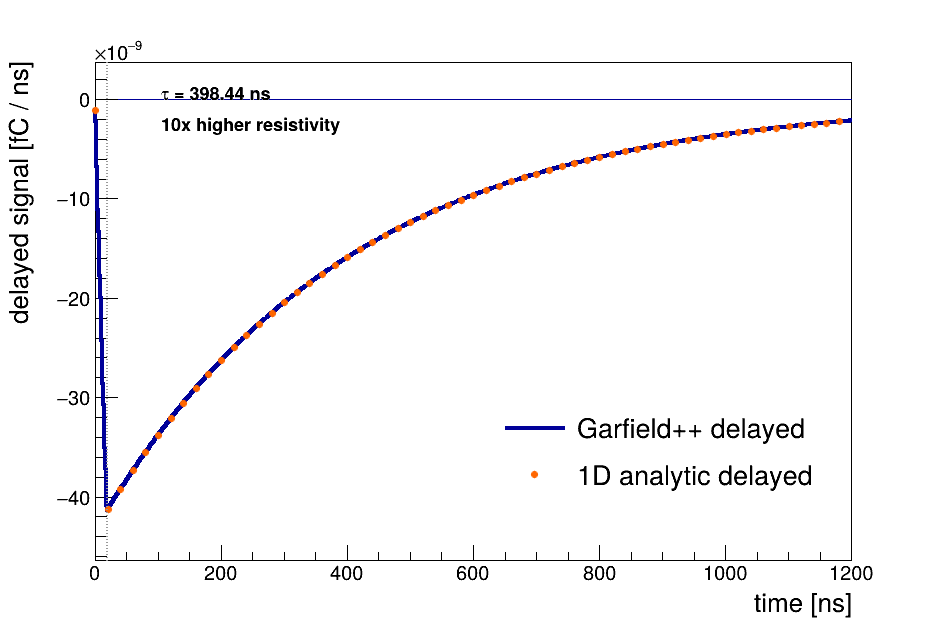
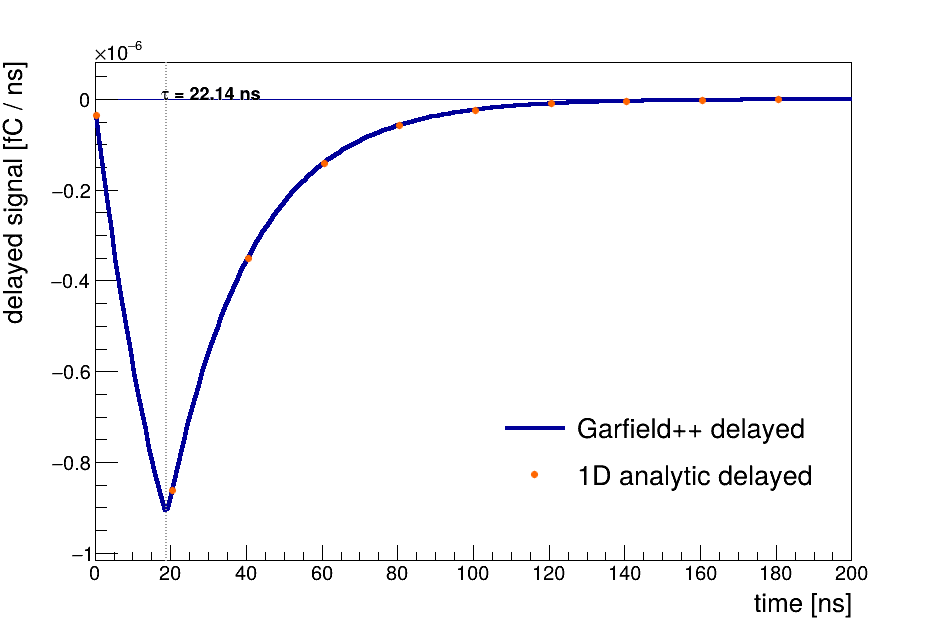
Improved dynamic example

diff --git a/plate2D/dynamic/scripts/compare_analytic_signal.py b/plate2D/dynamic/scripts/compare_analytic_signal.py
@@ -27,9 +27,9 @@ import ROOT
 class AnalyticParameters:
     resistive_thickness_cm: float = 0.5
     gas_gap_cm: float = 1.0
-    resistive_epsilon_r: float = 4.0
+    resistive_epsilon_r: float = 2.0
     gas_epsilon_r: float = 1.0
-    resistive_conductivity_s_m: float = 1.0e-4
+    resistive_conductivity_s_m: float = 1.0e-3
     gas_conductivity_s_m: float = 1.0e-12
     electron_start_y_cm: float = 1.45
     gas_resistive_interface_y_cm: float = 0.5
@@ -61,23 +61,23 @@ def read_signal(path: Path) -> list[tuple[float, float, float, float]]:
     return rows
 
 
-def read_resistive_conductivity(root: Path) -> float:
+def read_material_value(root: Path, material_id: int, key: str) -> float:
     sif = root / "elmer" / "weighting_dynamic_eqs.sif"
-    in_material_1 = False
-    pattern = re.compile(r"Electric Conductivity\s*=\s*([0-9.eE+-]+)")
+    in_material = False
+    pattern = re.compile(rf"{re.escape(key)}\s*=\s*([0-9.eE+-]+)")
     with sif.open() as handle:
         for line in handle:
             stripped = line.strip()
-            if stripped == "Material 1":
-                in_material_1 = True
+            if stripped == f"Material {material_id}":
+                in_material = True
                 continue
-            if in_material_1 and stripped == "End":
+            if in_material and stripped == "End":
                 break
-            if in_material_1:
+            if in_material:
                 match = pattern.search(stripped)
                 if match:
                     return float(match.group(1))
-    raise RuntimeError(f"Could not read Material 1 conductivity from {sif}.")
+    raise RuntimeError(f"Could not read Material {material_id} {key} from {sif}.")
 
 
 def analytic_components(
@@ -223,8 +223,81 @@ def make_plot(
     text = ROOT.TLatex()
     text.SetNDC(True)
     text.SetTextSize(0.032)
-    text.DrawLatex(0.53, 0.62, f"#tau = {relaxation_time_ns(pars):.2f} ns")
     text.DrawLatex(0.53, 0.57, "electron reaches layer at T = 19.0 ns")
+
+    path.parent.mkdir(parents=True, exist_ok=True)
+    canvas.SaveAs(str(path))
+
+
+def make_transient_signal_plot(
+    path: Path,
+    garfield_rows: list[tuple[float, float, float, float]],
+) -> None:
+    ROOT.gROOT.SetBatch(True)
+    ROOT.gStyle.SetOptStat(0)
+
+    xmax = 50.0
+    window_rows = [row for row in garfield_rows if row[0] <= xmax]
+    if not window_rows:
+        raise RuntimeError("No signal samples found in the 0-50 ns plotting window.")
+
+    values = [value for _, total, prompt, delayed in window_rows
+              for value in (total, prompt, delayed)]
+    ymin = 1.12 * min(values)
+    ymax = max(0.7e-6, 1.12 * max(values))
+
+    canvas = ROOT.TCanvas("cTransientSignal", "Transient signal", 950, 650)
+    frame = ROOT.TH1D("transientFrame", "", 100, 0.0, xmax)
+    frame.SetDirectory(0)
+    frame.SetMinimum(ymin)
+    frame.SetMaximum(ymax)
+    frame.GetXaxis().SetTitle("time [ns]")
+    frame.GetYaxis().SetTitle("signal [fC / ns]")
+    frame.GetXaxis().SetTitleSize(0.045)
+    frame.GetYaxis().SetTitleSize(0.045)
+    frame.Draw()
+
+    total_graph = graph(
+        [(t, total) for t, total, _, _ in garfield_rows],
+        "garfield_total_short",
+        ROOT.kBlue + 2,
+        4,
+    )
+    prompt_graph = graph(
+        [(t, prompt) for t, _, prompt, _ in garfield_rows],
+        "garfield_prompt_short",
+        ROOT.kGray + 2,
+        3,
+        2,
+    )
+    delayed_graph = graph(
+        [(t, delayed) for t, _, _, delayed in garfield_rows],
+        "garfield_delayed_short",
+        ROOT.kOrange + 7,
+        3,
+    )
+    total_graph.Draw("L SAME")
+    prompt_graph.Draw("L SAME")
+    delayed_graph.Draw("L SAME")
+
+    collection = ROOT.TLine(19.0, ymin, 19.0, ymax)
+    collection.SetLineColor(ROOT.kGray + 1)
+    collection.SetLineStyle(3)
+    collection.SetLineWidth(2)
+    collection.Draw()
+
+    legend = ROOT.TLegend(0.50, 0.65, 0.88, 0.84)
+    legend.SetBorderSize(0)
+    legend.SetFillStyle(0)
+    legend.AddEntry(total_graph, "total", "l")
+    legend.AddEntry(prompt_graph, "prompt", "l")
+    legend.AddEntry(delayed_graph, "delayed", "l")
+    legend.Draw()
+
+    text = ROOT.TLatex()
+    text.SetNDC(True)
+    text.SetTextSize(0.032)
+    text.DrawLatex(0.52, 0.57, "electron reaches layer at T = 19.0 ns")
 
     path.parent.mkdir(parents=True, exist_ok=True)
     canvas.SaveAs(str(path))
@@ -240,7 +313,9 @@ def make_tail_zoom_plot(
     ROOT.gStyle.SetOptStat(0)
 
     dt = garfield_rows[1][0] - garfield_rows[0][0]
-    xmax = garfield_rows[-1][0] + 0.5 * dt
+    full_xmax = garfield_rows[-1][0] + 0.5 * dt
+    tail_xmax = 19.0 + 8.0 * relaxation_time_ns(pars)
+    xmax = min(full_xmax, max(200.0, tail_xmax))
     delayed_values = [delayed for _, _, _, delayed in garfield_rows]
     ymin = 1.12 * min(delayed_values)
     ymax = max(0.3e-8, 0.08 * abs(ymin))
@@ -288,7 +363,6 @@ def make_tail_zoom_plot(
     text.SetNDC(True)
     text.SetTextSize(0.032)
     text.DrawLatex(0.17, 0.84, f"#tau = {relaxation_time_ns(pars):.2f} ns")
-    text.DrawLatex(0.17, 0.79, "10x higher resistivity")
 
     path.parent.mkdir(parents=True, exist_ok=True)
     canvas.SaveAs(str(path))
@@ -333,12 +407,19 @@ def main() -> None:
     docs_plot_file = root / "docs" / "figures" / "signal_transient_analytic_overlay.png"
     zoom_file = root / "figures" / "signal_transient_tail_zoom.png"
     docs_zoom_file = root / "docs" / "figures" / "signal_transient_tail_zoom.png"
+    signal_plot_file = root / "figures" / "signal_transient.png"
+    docs_signal_plot_file = root / "docs" / "figures" / "signal_transient.png"
 
     pars = AnalyticParameters(
-        resistive_conductivity_s_m=read_resistive_conductivity(root)
+        resistive_conductivity_s_m=read_material_value(
+            root, 1, "Electric Conductivity"
+        ),
+        resistive_epsilon_r=read_material_value(root, 1, "Relative Permittivity"),
     )
     garfield_rows = read_signal(signal_file)
     analytic_rows = write_analytic_table(analytic_file, garfield_rows, pars)
+    make_transient_signal_plot(signal_plot_file, garfield_rows)
+    make_transient_signal_plot(docs_signal_plot_file, garfield_rows)
     make_plot(plot_file, garfield_rows, analytic_rows, pars)
     make_plot(docs_plot_file, garfield_rows, analytic_rows, pars)
     make_tail_zoom_plot(zoom_file, garfield_rows, analytic_rows, pars)
@@ -346,6 +427,8 @@ def main() -> None:
     print_residuals(garfield_rows, analytic_rows, pars)
     print_integrals(garfield_rows)
     print(f"Wrote {analytic_file}")
+    print(f"Wrote {signal_plot_file}")
+    print(f"Wrote {docs_signal_plot_file}")
     print(f"Wrote {plot_file}")
     print(f"Wrote {docs_plot_file}")
     print(f"Wrote {zoom_file}")

diff --git a/plate2D/dynamic/docs/index.md b/plate2D/dynamic/docs/index.md
@@ -18,7 +18,10 @@ prompt signal integrates to about `0.844 e` for the default electron track.
 Here the layer also has a conductivity. At very early times the response looks
 like the dielectric weighting field. At long times, charge in the resistive
 layer relaxes, and the gas/resistive interface behaves more like it is tied to
-the readout electrode. The missing charge appears as a delayed tail.
+the readout electrode. The missing charge appears as a delayed tail. To make
+that delayed component visible in this short activity, the dynamic example uses
+`Relative Permittivity = 2.0` and `Electric Conductivity = 1.0e-3 S/m` in the
+resistive layer.
 
 ## Files
 
@@ -121,8 +124,8 @@ cd ..
 
 Check these entries in `weighting_dynamic_eqs.sif`:
 
-- `Electric Conductivity = 1.0e-4` in the resistive layer,
-- `Relative Permittivity = 4.0` in the resistive layer,
+- `Electric Conductivity = 1.0e-3` in the resistive layer,
+- `Relative Permittivity = 2.0` in the resistive layer,
 - `TimeStep Sizes = 1.0e-9`,
 - `TimeStep Intervals = 1200`.
 
@@ -154,12 +157,13 @@ sensor.SetTimeWindow(0., 1.0, 1200);
 The program writes `output/garfield/signal_transient.dat`, with columns for the
 total, prompt, and delayed signal.
 
-Example full-scale signal:
+Example signal, zoomed to the first `50 ns`:
 
 ![Transient signal](./figures/signal_transient.png)
 
-On this scale the delayed tail is hard to see because the prompt current is
-much larger. The analytic comparison script below makes a tail zoom.
+The full signal file still extends to `1200 ns` so that the delayed tail and
+signal integral can be checked. The analytic comparison script below makes a
+tail zoom.
 
 ## 4. Analytic 1D Result
 
@@ -176,9 +180,9 @@ d_1 = 0.5~\mathrm{cm},
 \qquad
 d_2 = 1.0~\mathrm{cm},
 \qquad
-\varepsilon_r = 4,
+\varepsilon_r = 2,
 \qquad
-\sigma = 10^{-4}~\mathrm{S/m}.
+\sigma = 10^{-3}~\mathrm{S/m}.
 $$
 
 Let $u(t)$ be the weighting potential at the gas/resistive interface. The
@@ -225,7 +229,7 @@ $$
 For the default values,
 
 $$
-\tau = 398~\mathrm{ns}.
+\tau = 22~\mathrm{ns}.
 $$
 
 The initial value $u(0)$ is not zero. It is the prompt electrostatic weighting
@@ -260,7 +264,7 @@ The prompt part is
 $$
 E_w^{(0)}
 = \frac{\varepsilon_r}{d_1 + \varepsilon_r d_2}
-= 0.889~\mathrm{cm^{-1}}.
+= 0.800~\mathrm{cm^{-1}}.
 $$
 
 The delayed amplitude is
@@ -268,8 +272,24 @@ The delayed amplitude is
 $$
 \Delta E_w
 = \frac{d_1}{d_2(d_1 + \varepsilon_r d_2)}
-= 0.111~\mathrm{cm^{-1}}.
+= 0.200~\mathrm{cm^{-1}}.
 $$
+
+This expression is useful when thinking about how to make the transient part
+more visible. In this 1D model, the conductivity mainly changes the time scale
+`tau`; it does not change the infinite-time delayed charge. The relative size
+of the delayed field is
+
+$$
+\frac{\Delta E_w}{E_w^{(0)}} =
+\frac{d_1}{\varepsilon_r d_2}.
+$$
+
+To make the delayed component larger, increase the resistive-layer thickness
+or use a smaller dielectric constant. To make the same delayed charge appear
+earlier, increase the conductivity. In real materials, conductivity and
+dielectric constant can be correlated, but in this simplified model they are
+independent material inputs.
 
 The electron starts at $y = 1.45~\mathrm{cm}$ and stops at the gas/resistive
 interface at $y = 0.5~\mathrm{cm}$, so
@@ -310,8 +330,10 @@ Run:
 python3 scripts/compare_analytic_signal.py
 ```
 
-The script reads the conductivity from `weighting_dynamic_eqs.sif`, writes
-`output/garfield/signal_transient_analytic.dat`, and makes two plots:
+The script reads the conductivity and relative permittivity from
+`weighting_dynamic_eqs.sif`, writes
+`output/garfield/signal_transient_analytic.dat`, regenerates the short signal
+plot, and makes two comparison plots:
 
 - `figures/signal_transient_analytic_overlay.png`
 - `figures/signal_transient_tail_zoom.png`
@@ -331,21 +353,21 @@ the FEM/Garfield result and the analytic result. It should also print signal
 integrals close to:
 
 ```text
-prompt:  -0.844 e
-delayed: -0.100 e  within the 0-1200 ns window
-total:   -0.945 e  within the 0-1200 ns window
+prompt:  -0.760 e
+delayed: -0.190 e  within the 0-1200 ns window
+total:   -0.950 e  within the 0-1200 ns window
 ```
 
 The infinite-time total is `-0.950 e`. It is not exactly `-1 e` because the
 electron starts at `y = 1.45 cm`, slightly below the top electrode at
-`y = 1.5 cm`. The remaining difference between `-0.945 e` and `-0.950 e` is in
-the tail beyond the plotted time window.
+`y = 1.5 cm`. With the default `22 ns` relaxation time, the `1200 ns` signal
+window captures essentially the whole tail.
 
 ## Questions to Answer
 
 - Why does the signal start immediately in the corrected dynamic calculation?
 - Why did starting the transient map from zero produce a delayed pulse with little prompt signal?
-- Why is the static prompt integral only about `0.844 e`?
+- Why is the prompt integral less than `1 e`? Why is it about `0.760 e` for the default dynamic parameters?
 - Why does the dynamic signal approach about `0.950 e` when integrated long enough?
 - Where does the electron stop, and why does the prompt signal stop there?
 
@@ -354,6 +376,8 @@ the tail beyond the plotted time window.
 - Change the resistive-layer conductivity by a factor of `10`. Remember that higher resistivity means smaller conductivity.
 - After changing conductivity, rerun `weighting_dynamic_eqs.sif`, `sim_transient`, and `compare_analytic_signal.py`.
 - Predict how $\tau$ changes before looking at the plot.
+- Change the resistive-layer dielectric constant from `2` to `4` while keeping the conductivity fixed. What changes in the prompt and delayed amplitudes?
+- To recover the more subtle original case, try `Relative Permittivity = 4.0` and `Electric Conductivity = 1.0e-4 S/m`.
 - Compare the prompt and delayed integrals. Does the total charge change, or is the charge mostly redistributed in time?
 - Try a shorter signal window, for example `200 ns`. How much delayed charge is missed?
 - Start the electron closer to the top electrode. How does the total integrated charge change?